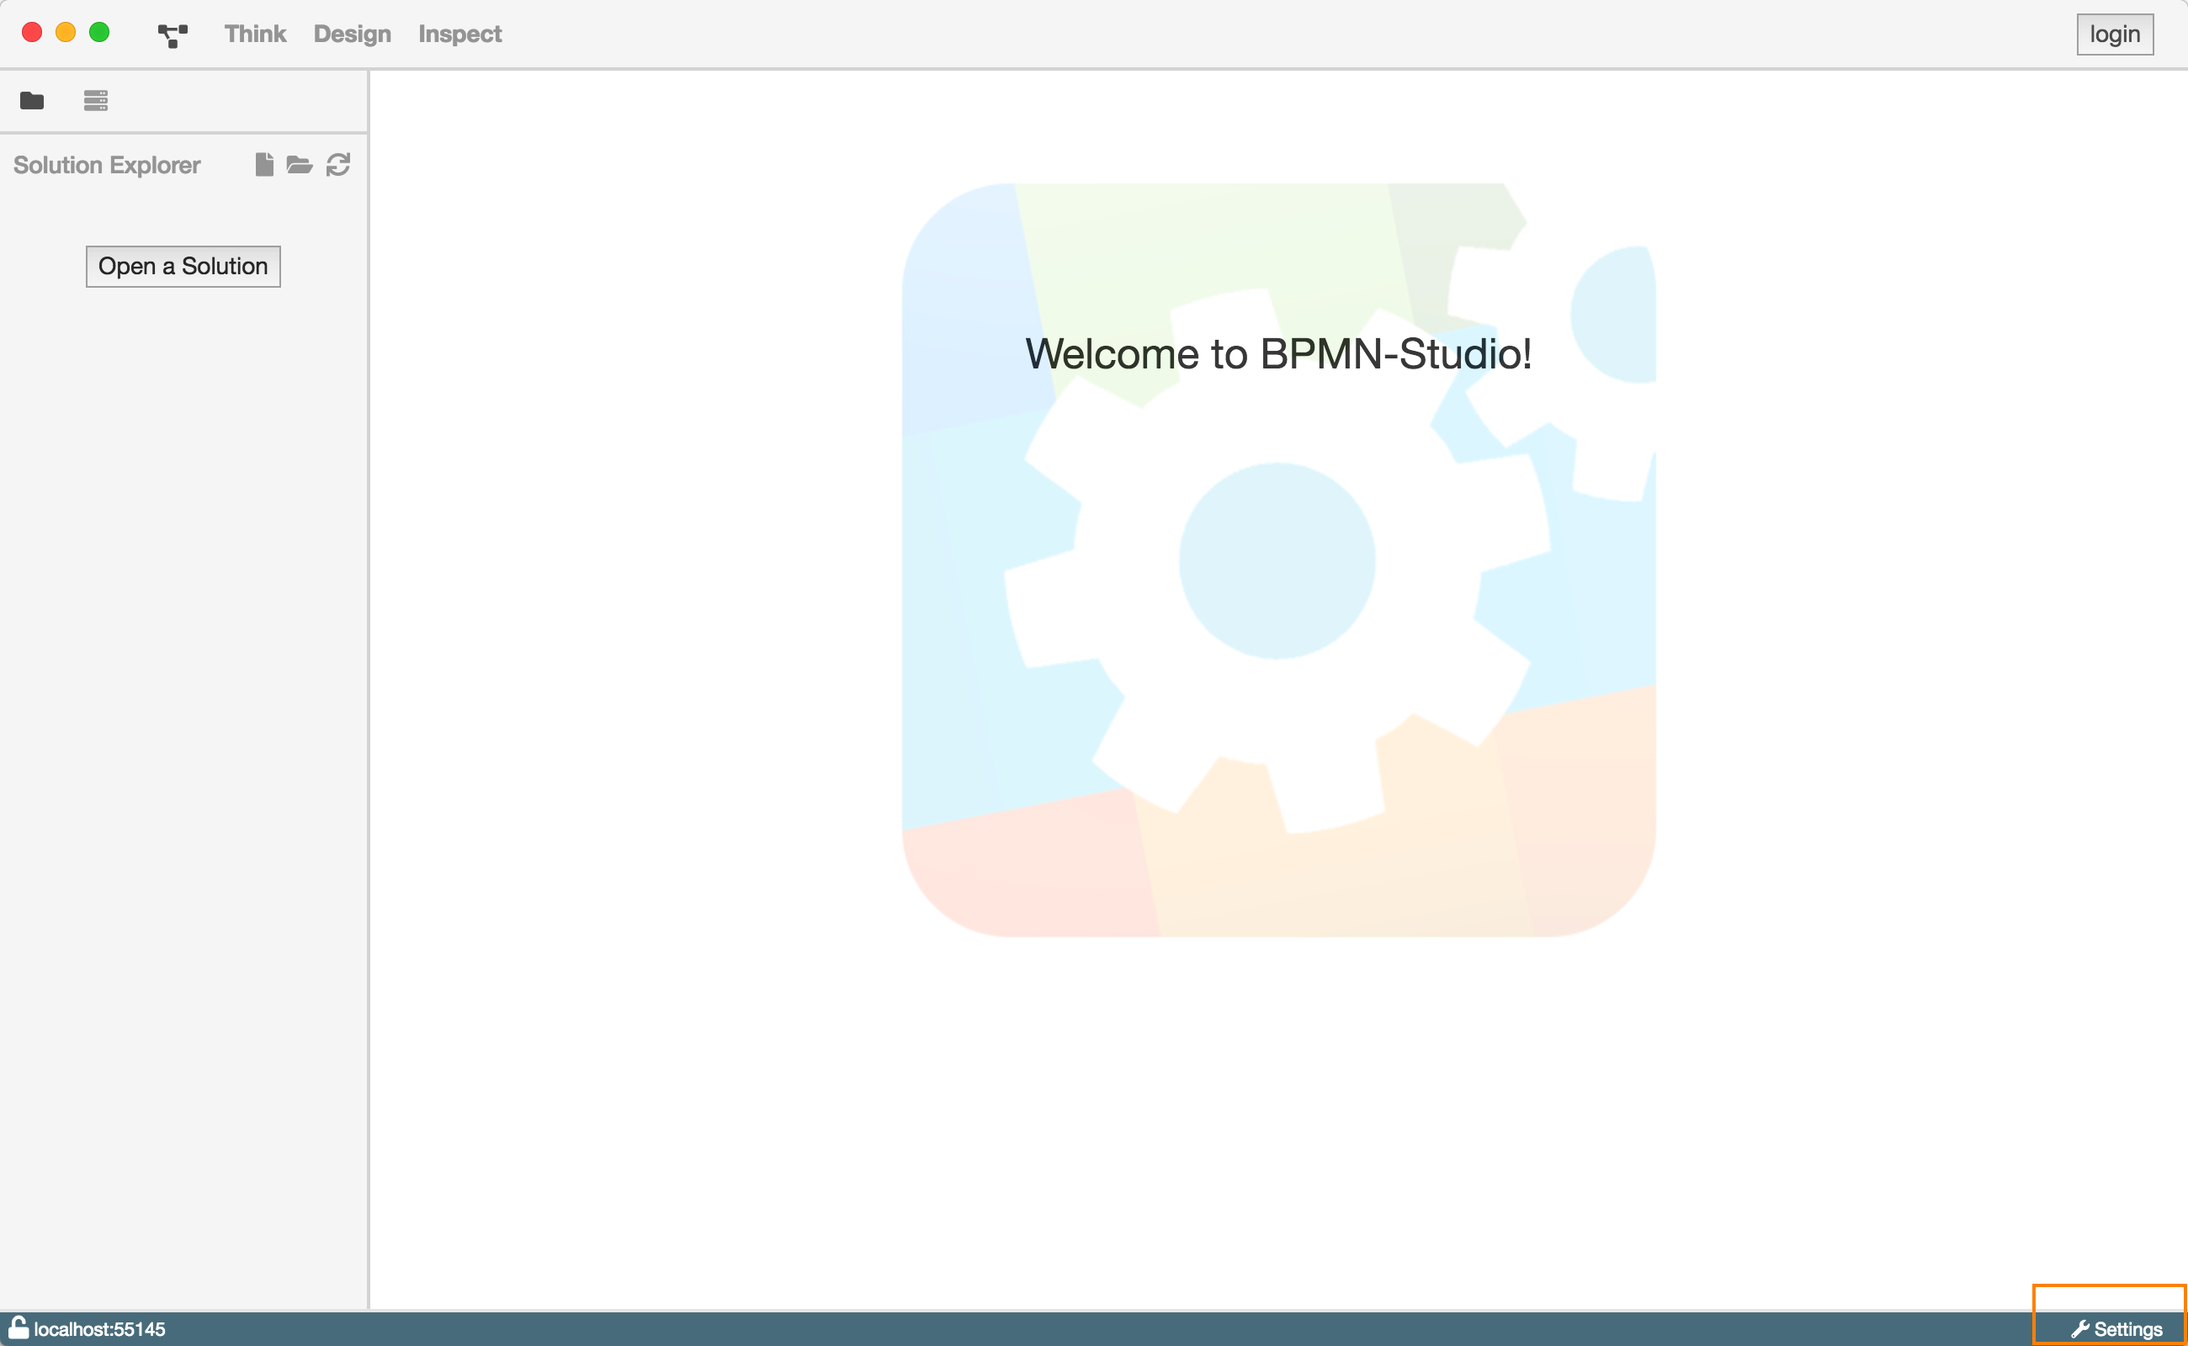
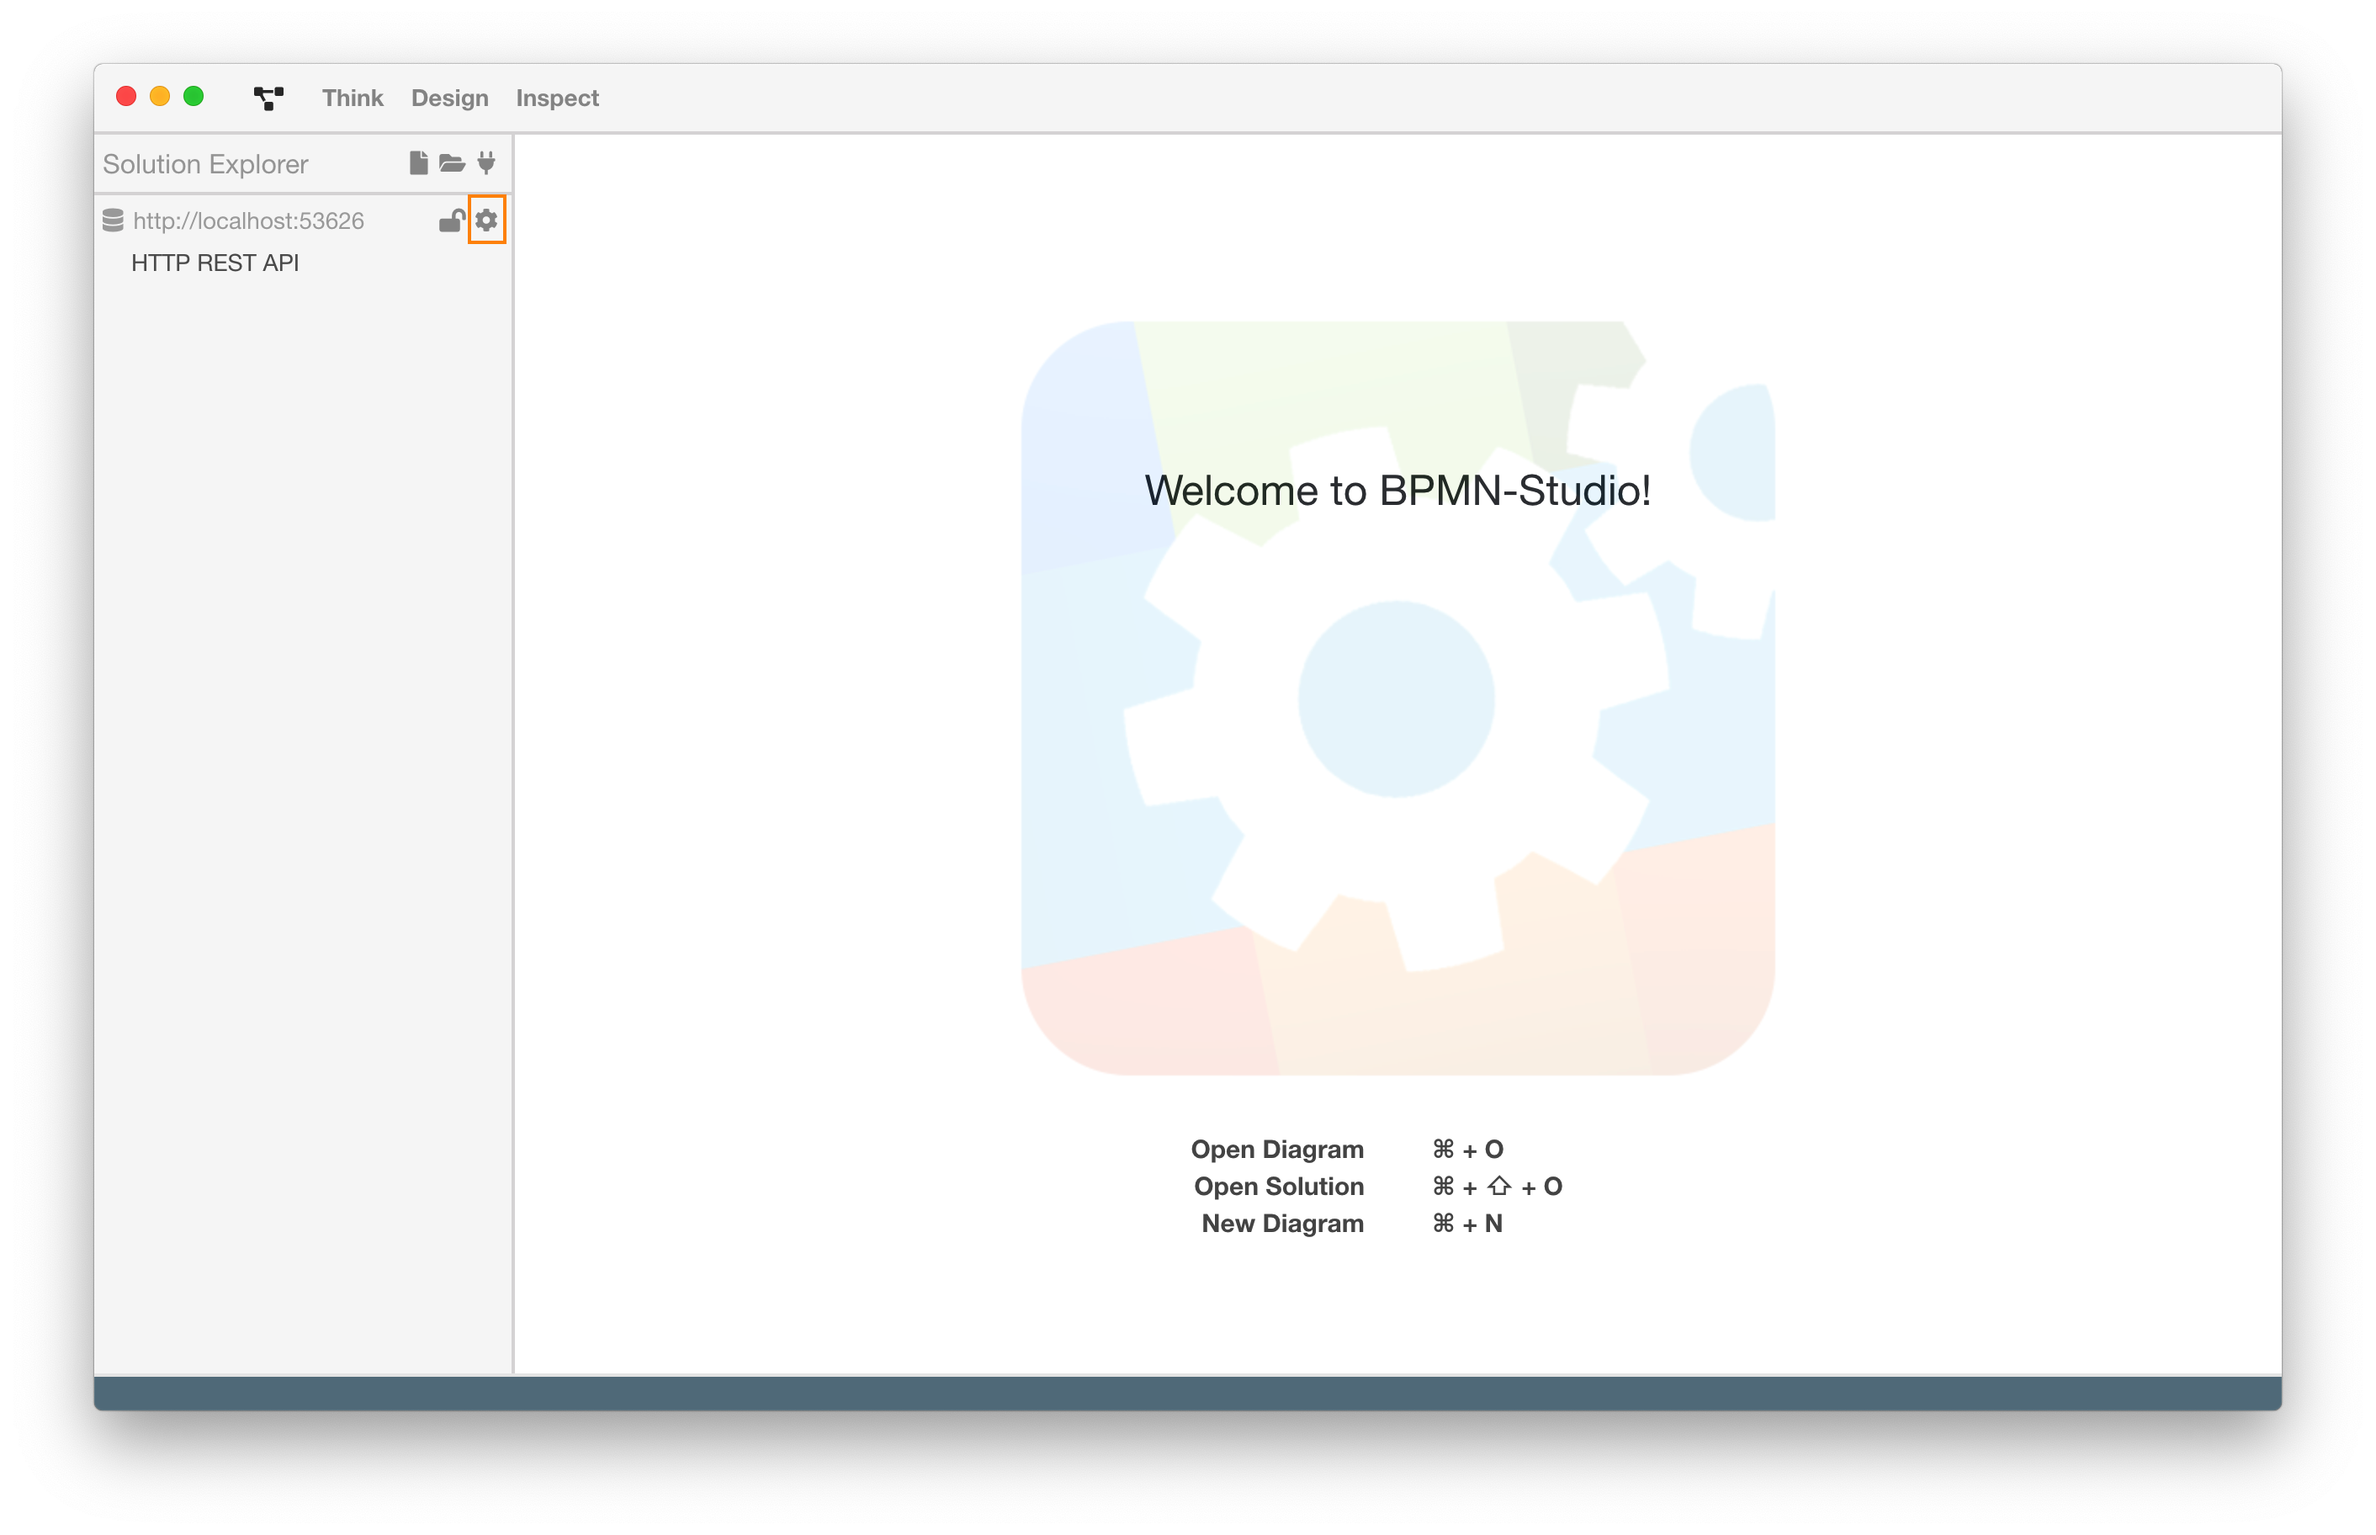
:recycle: Refactor Settings Documentation

diff --git a/03_bpmn-studio/components/settings/settings.md b/03_bpmn-studio/components/settings/settings.md
@@ -2,39 +2,25 @@
 
 ## Aufgaben und Motivation
 
-Die Settings dienen dazu, die Konfiguration vom BPMN-Studio zu bearbeiten.
+Die Settings dienen dazu, allgemeine Einstellungen an der in BPMN-Studio
+integrierten ProcessEngine vorzunehmen.
 
 ## Aufbau und Strukturierung
 
-Die Einstellungen können immer über die Schaltfläche `Settings` unten rechts
-in der Statusleiste geöffnet werden.
+Die Einstellungen können immer über das Zahnradsymbol an der rechten Seite
+der internen ProcessEngine-Solution geöffnet werden.
 
 ![Settings Aufruf](settings-open.png)
 
-Die Ansicht besteht aus verschiedenen Kategorien, unter welchen einzelne
-Konfigurationspunkte zu finden sind:
+Mit einem Klick öffnet sich die Settings Ansicht.
 
 ![Settings](settings.png)
 
-**Einstellungen für die ProcessEngine:**
+**Konfiguration der Authority:**
 
-Hier kann der Endpunkt der ProcessEngine konfiguriert werden, den das
-BPMN-Studio verwenden soll. Bei dem Endpunkt handelt es sich um eine HTTP URL.
-
-![Einstellungen für die ProcessEngine](settings-processengine.png)
-
-Falls BPMN-Studio als Electron Anwendung ausgeführt wird, ist diese Einstellung
-automatisch auf die interne ProcessEngine gesetzt. Falls die interne
-ProcessEngine nicht verwendet wird, zeigt BPMN-Studio einen Hinweis an:
-
-![Interne ProcessEngine wird vorgeschlagen](settings-processengine-use-internal.png)
-
-**Einstellungen für OpenId Connect:**
-
-In dieser Sektion kann die Authority gesetzt werden. Diese wird für die Login
-Funktionalität verwendet. Die Authority muss eine HTTP URL enthalten.
-
-![Einstellungen für OpenId Connect](settings-open-id.png)
+Im ersten und aktuell einzigen Feld kann die Authority der internen
+ProcessEngine konfiguriert werden.
+Die Authority muss eine HTTP URL enthalten.
 
 ## Funktion
 
